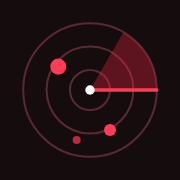
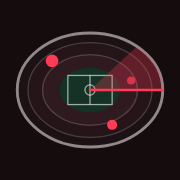
Radar em formato de Maracanã, selo no cabeçalho e novos ícones
Claude-Session: https://claude.ai/code/session_01Vux8Nnw4LKNpjdXRgt6GCX

Changed region(s): [[0.0833, 0.1111, 0.9167, 0.8889]]

diff --git a/index.html b/index.html
@@ -63,6 +63,11 @@ body {
 }
 
 /* Cabeçalho */
+.marca { display: flex; align-items: center; gap: 14px; min-width: 0; }
+.escudo { display: none; width: 56px; height: 56px; object-fit: contain; flex: none; }
+.selo { flex: none; width: 56px; height: 56px; }
+.tem-escudo .escudo { display: block; }
+.tem-escudo .selo { display: none; }
 .top { display: flex; flex-wrap: wrap; align-items: flex-end; justify-content: space-between; gap: 12px 24px; }
 h1 {
   margin: 0; font-family: var(--display); font-stretch: 78%; font-weight: 900;
@@ -81,6 +86,9 @@ h1 span { color: var(--red); }
 .radar { background: var(--radar-bg); border-radius: 6px; padding: 8px; }
 .radar svg { display: block; width: 100%; height: auto; }
 .ring { fill: none; stroke: var(--radar-line); }
+.rim { fill: none; stroke: rgba(255, 235, 238, .42); stroke-width: 2.5; }
+.roof { fill: none; stroke: rgba(255, 235, 238, .22); stroke-width: 5; stroke-dasharray: 1.5 4.5; }
+.pitch-line { fill: none; stroke: rgba(255, 255, 255, .42); stroke-width: 1; }
 .spoke { stroke: var(--radar-line); }
 .rlabel { fill: var(--radar-text); font-family: var(--mono); font-size: 9px; opacity: .75; }
 .slabel { fill: var(--radar-text); font-family: var(--display); font-stretch: 80%; font-weight: 700; font-size: 11.5px; letter-spacing: .08em; cursor: pointer; }
@@ -139,7 +147,20 @@ h1 span { color: var(--red); }
 <div class="wrap">
   <header>
     <div class="top">
-      <h1>Radar do <span>Flamengo</span></h1>
+      <div class="marca">
+        <img class="escudo" id="escudo" alt="" width="56" height="56">
+        <svg class="selo" viewBox="0 0 56 56" width="56" height="56" aria-hidden="true">
+          <defs><clipPath id="selo-clip"><circle cx="28" cy="28" r="25"/></clipPath></defs>
+          <g clip-path="url(#selo-clip)">
+            <rect width="56" height="56" fill="#111"/>
+            <rect y="3" width="56" height="8.4" fill="#c20e2b"/><rect y="19.4" width="56" height="8.4" fill="#c20e2b"/>
+            <rect y="35.8" width="56" height="8.4" fill="#c20e2b"/><rect y="52.2" width="56" height="8.4" fill="#c20e2b"/>
+          </g>
+          <circle cx="28" cy="28" r="25" fill="none" stroke="#f4ecec" stroke-width="2.5"/>
+          <circle cx="28" cy="28" r="6" fill="#f4ecec"/><circle cx="28" cy="28" r="2.4" fill="#c20e2b"/>
+        </svg>
+        <h1>Radar do <span>Flamengo</span></h1>
+      </div>
       <div class="status"><span class="dot" id="dot"></span><span id="status">Buscando notícias…</span></div>
     </div>
     <div class="stripes" aria-hidden="true"></div>
@@ -148,9 +169,9 @@ h1 span { color: var(--red); }
   <div class="grid">
     <aside class="radar-col">
       <div class="radar">
-        <svg id="radar" viewBox="-225 -225 450 450" role="img" aria-label="Radar das notícias: quanto mais perto do centro, mais recente"></svg>
+        <svg id="radar" viewBox="-225 -180 450 360" role="img" aria-label="Radar das notícias em forma de Maracanã visto de cima: quanto mais perto do campo, mais recente"></svg>
       </div>
-      <p class="legend">Cada ponto é uma notícia. No centro, as de agora; na borda, as de 7 dias atrás. Toque em um ponto para ir até ela.</p>
+      <p class="legend">O Maracanã visto de cima. Cada ponto é uma notícia: no gramado, as das últimas 6 horas; nas arquibancadas, as de até 24 h, 3 e 7 dias. Toque em um ponto para ir até ela.</p>
     </aside>
 
     <main>
@@ -175,7 +196,7 @@ h1 span { color: var(--red); }
     { id: "mercado", nome: "Mercado" },
     { id: "elenco", nome: "Elenco" },
     { id: "bastidores", nome: "Bastidores" },
-    { id: "feminino", nome: "Feminino e base" },
+    { id: "feminino", nome: "Feminino e base", curto: "Fem. e base" },
     { id: "outros", nome: "+ Esportes" }
   ];
   var R = 165, DIAS = 7, SVGNS = "http://www.w3.org/2000/svg";
@@ -219,26 +240,49 @@ h1 span { color: var(--red); }
   function desenharRadar(vis) {
     var s = $("radar"); s.textContent = "";
     var seg = 360 / CATS.length;
+    // Maracanã visto de cima: campo no centro (até 6 h), arquibancada inferior (até 24 h),
+    // intermediária (até 3 dias) e superior (até 7 dias).
+    var K = 0.78;
+    var bandas = [[7, "#1c1114"], [3, "#251519"], [1, "#2f1a20"], [0.25, "#143326"]];
+    bandas.forEach(function (b) {
+      s.appendChild(svg("ellipse", { rx: escala(b[0]), ry: escala(b[0]) * K, fill: b[1] }));
+    });
+    s.appendChild(svg("ellipse", { class: "roof", rx: R + 9, ry: (R + 9) * K }));
+    [1, 3].forEach(function (d) { s.appendChild(svg("ellipse", { class: "ring", rx: escala(d), ry: escala(d) * K })); });
+    s.appendChild(svg("ellipse", { class: "rim", rx: R, ry: R * K }));
+    // gramado
+    var pw = 86, ph = 54;
+    s.appendChild(svg("rect", { class: "pitch-line", x: -pw / 2, y: -ph / 2, width: pw, height: ph }));
+    s.appendChild(svg("line", { class: "pitch-line", x1: 0, y1: -ph / 2, x2: 0, y2: ph / 2 }));
+    s.appendChild(svg("circle", { class: "pitch-line", r: 8 }));
+    [-1, 1].forEach(function (lado) {
+      s.appendChild(svg("rect", { class: "pitch-line", x: lado < 0 ? -pw / 2 : pw / 2 - 14, y: -13, width: 14, height: 26 }));
+    });
+    s.appendChild(svg("ellipse", { class: "ring", rx: escala(0.25), ry: escala(0.25) * K }));
     [0.25, 1, 3, 7].forEach(function (d) {
-      var r = escala(d);
-      s.appendChild(svg("circle", { class: "ring", r: r }));
-      var t = svg("text", { class: "rlabel", x: 4, y: -r + 11 }); t.textContent = d < 1 ? "6 h" : d === 1 ? "24 h" : d + " dias"; s.appendChild(t);
+      var t = svg("text", { class: "rlabel", x: 4, y: -escala(d) * K + 11 });
+      t.textContent = d < 1 ? "6 h" : d === 1 ? "24 h" : d + " dias"; s.appendChild(t);
     });
     CATS.forEach(function (c, i) {
       var a = (-90 - seg / 2 + i * seg) * Math.PI / 180;
-      s.appendChild(svg("line", { class: "spoke", x1: 0, y1: 0, x2: R * Math.cos(a), y2: R * Math.sin(a) }));
+      var r0 = escala(0.25);
+      s.appendChild(svg("line", { class: "spoke", x1: r0 * Math.cos(a), y1: r0 * Math.sin(a) * K, x2: R * Math.cos(a), y2: R * Math.sin(a) * K }));
       var m = (-90 + i * seg) * Math.PI / 180;
-      var t = svg("text", { class: "slabel" + (filtro === c.id ? " on" : ""), x: 195 * Math.cos(m), y: 195 * Math.sin(m) + 4, "text-anchor": "middle" });
-      t.textContent = c.nome.toUpperCase();
+      // topo e base ficam centralizados; os quatro dos lados vão para as bordas, longe do estádio
+      var lado = Math.cos(m) > 0.1 ? 1 : Math.cos(m) < -0.1 ? -1 : 0;
+      var t = svg("text", { class: "slabel" + (filtro === c.id ? " on" : ""),
+        x: lado ? lado * 221 : 0, y: lado ? Math.sin(m) > 0 ? 100 : -92 : 158 * Math.sin(m) + 4,
+        "text-anchor": lado > 0 ? "end" : lado < 0 ? "start" : "middle" });
+      t.textContent = (c.curto || c.nome).toUpperCase();
       t.addEventListener("click", function () { escolher(filtro === c.id ? "todas" : c.id); });
       s.appendChild(t);
     });
+    var sq = svg("g", { transform: "scale(1 " + K + ")" });
     var g = svg("g", { class: "sweep" });
     var a2 = 50 * Math.PI / 180;
     g.appendChild(svg("path", { d: "M0 0 L" + R + " 0 A" + R + " " + R + " 0 0 0 " + (R * Math.cos(a2)) + " " + (-R * Math.sin(a2)) + " Z", fill: "#ff3b55", "fill-opacity": ".13" }));
     g.appendChild(svg("line", { x1: 0, y1: 0, x2: R, y2: 0, stroke: "#ff3b55", "stroke-opacity": ".7", "stroke-width": 1.5 }));
-    s.appendChild(g);
-    s.appendChild(svg("circle", { r: 3, fill: "#ffffff" }));
+    sq.appendChild(g); s.appendChild(sq);
 
     var ids = {}; vis.forEach(function (it) { ids[it.id] = 1; });
     itens.forEach(function (it) {
@@ -247,7 +291,7 @@ h1 span { color: var(--red); }
       var h = hash(it.id);
       var ang = (-90 - seg / 2 + catIndex(it.categoria) * seg + seg * (0.15 + 0.7 * ((h % 1000) / 1000))) * Math.PI / 180;
       var r = Math.max(10, escala(dias) - 5);
-      var x = r * Math.cos(ang), y = r * Math.sin(ang);
+      var x = r * Math.cos(ang), y = r * Math.sin(ang) * 0.78;
       var g2 = svg("g", { class: "blip-g" + (quente === it.id ? " hot" : ""), tabindex: 0, role: "button", "data-id": it.id });
       var title = svg("title", {}); title.textContent = it.titulo; g2.appendChild(title);
       g2.appendChild(svg("circle", { class: "blip-halo", cx: x, cy: y, r: 11 }));
@@ -347,6 +391,11 @@ h1 span { color: var(--red); }
         else { estadoVazio = ["Não deu para carregar as notícias", "Confira a sua internet e abra o app de novo."]; status("Sem conexão", false); render(); }
       });
   }
+  (function () {
+    var im = new Image();
+    im.onload = function () { $("escudo").src = im.src; document.body.classList.add("tem-escudo"); };
+    im.src = "icons/escudo.png";
+  })();
   carregar();
   setInterval(function () { if (!document.hidden) carregar(); }, 5 * 60 * 1000);
   document.addEventListener("visibilitychange", function () { if (!document.hidden) carregar(); });

diff --git a/sw.js b/sw.js
@@ -1,5 +1,5 @@
 // Guarda o app para abrir sem internet. As notícias sempre tentam a rede primeiro.
-const CACHE = "radar-v1";
+const CACHE = "radar-v2";
 const CASCA = ["./", "index.html", "noticias.json", "manifest.webmanifest", "icons/icon-192.png", "icons/icon-512.png"];
 
 self.addEventListener("install", (e) => {

diff --git a/README.md b/README.md
@@ -28,3 +28,7 @@ Depois abra `http://localhost:8080`.
 1. Em **Settings > Pages**, escolha **Deploy from a branch**, branch `main`, pasta `/ (root)`.
 2. Em **Settings > Actions > General > Workflow permissions**, marque **Read and write permissions**.
 3. O app fica em `https://SEU-USUARIO.github.io/NOME-DO-REPOSITORIO/`.
+
+## Escudo
+
+O app procura o arquivo `icons/escudo.png` (PNG quadrado, de preferência com fundo transparente) e o mostra ao lado do título. Sem o arquivo, aparece um selo rubro-negro listrado. O escudo é marca registrada do clube e não vem neste repositório: coloque o seu próprio arquivo.
